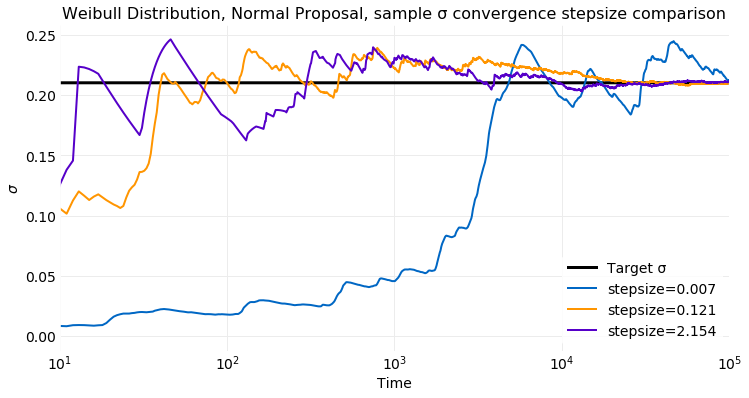
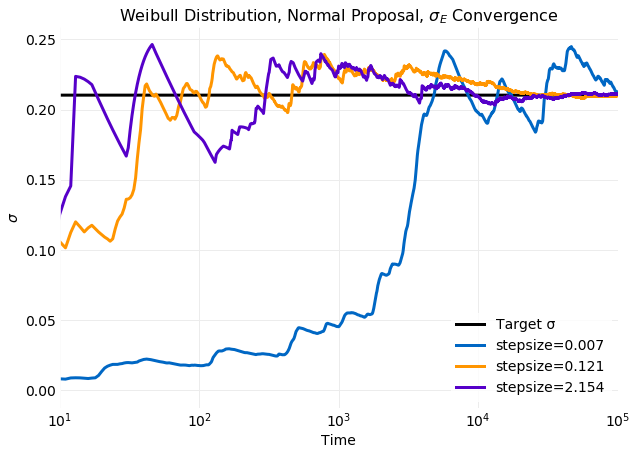
plot updates

diff --git a/hydrogen_notebooks/mcmc/metropolis_hastings/weibull_target/normal_proposal_burn_in.py b/hydrogen_notebooks/mcmc/metropolis_hastings/weibull_target/normal_proposal_burn_in.py
@@ -150,3 +150,41 @@ config.save_post_asset(figure, "metropolis_hastings_sampling", "normal_proposal_
 sample_idx = 4
 title = f"Weibull Distribution, Normal Proposal: Accepted {format(acceptance[sample_idx], '2.0f')}%, " + r"$X_0$=" + f"{x0[sample_idx]}"
 gplot.pdf_samples(title, target_pdf, all_samples[sample_idx][10000:], "metropolis_hastings_sampling", "normal_proposal_sampled_pdf_burnin-removed-x-3")
+
+# %%
+
+μ = stats.weibull_mean(k, λ)
+title = r"Weibull Distribution, Normal Proposal, $μ_E$ Convergence"
+time = numpy.array(range(nsample-10000))
+nplot = len(all_samples)
+figure, axis = pyplot.subplots(figsize=(10, 7))
+axis.set_xlabel("Time")
+axis.set_ylabel(r"$μ$")
+axis.set_title(title)
+axis.set_xlim([1.0, nsample-10000])
+axis.set_ylim([0.4, 1.25])
+axis.yaxis.set_ticks([0.5, 0.75, 1.0, 1.25])
+axis.semilogx(time, numpy.full(nsample-10000, μ), label="Target μ", color="#000000")
+for i in range(nplot):
+    axis.semilogx(time, stats.cummean(all_samples[i][10000:]), label=r"$X_0$="+f"{format(x0[i], '2.2f')}")
+axis.legend(bbox_to_anchor=(0.7, 0.55))
+config.save_post_asset(figure, "metropolis_hastings_sampling", "normal_proposal_burnin-removed-mean-convergence")
+
+# %%
+ 
+σ = stats.weibull_sigma(k, λ)
+title = r"Weibull Distribution, Normal Proposal, $σ_E$ Convergence"
+time = range(nsample-10000)
+nplot = len(all_samples)
+
+figure, axis = pyplot.subplots(figsize=(10, 7))
+axis.set_xlabel("Time")
+axis.set_ylabel(r"$σ$")
+axis.set_title(title)
+axis.set_xlim([1.0, nsample-10000])
+axis.set_ylim([-0.05, 0.5])
+axis.semilogx(time, numpy.full(nsample-10000, σ), label="Target σ", color="#000000")
+for i in range(nplot):
+    axis.semilogx(time, stats.cumsigma(all_samples[i][10000:]), label=r"$X_0$="+f"{format(x0[i], '2.2f')}")
+axis.legend(bbox_to_anchor=(0.7, 0.525))
+config.save_post_asset(figure, "metropolis_hastings_sampling", "normal_proposal_burnin_removed-sigma-convergence")

diff --git a/glyfish/gplot.py b/glyfish/gplot.py
@@ -58,28 +58,28 @@ def steps_size_time_series(title, samples, time, stepsize, acceptance, ylim, tex
 def step_size_mean(title, samples, time, μ, stepsize, post, plot):
     nplot = len(samples)
     nsample = len(time)
-    figure, axis = pyplot.subplots(figsize=(12, 6))
+    figure, axis = pyplot.subplots(figsize=(10, 7))
     axis.set_xlabel("Time")
     axis.set_ylabel(r"$μ$")
     axis.set_title(title)
     axis.set_xlim([10.0, nsample])
     axis.semilogx(time, numpy.full((len(time)), μ), label="Target μ", color="#000000")
     for i in range(nplot):
-        axis.semilogx(time, stats.cummean(samples[i]), label=f"stepsize={format(stepsize[i], '2.3f')}", lw=2)
+        axis.semilogx(time, stats.cummean(samples[i]), label=f"stepsize={format(stepsize[i], '2.3f')}")
     axis.legend()
     config.save_post_asset(figure, post, plot)
 
 def step_size_sigma(title, samples, time, σ, stepsize, post, plot):
     nplot = len(samples)
     nsample = len(time)
-    figure, axis = pyplot.subplots(figsize=(12, 6))
+    figure, axis = pyplot.subplots(figsize=(10, 7))
     axis.set_xlabel("Time")
     axis.set_ylabel(r"$σ$")
     axis.set_title(title)
     axis.set_xlim([10.0, nsample])
     axis.semilogx(time, numpy.full((len(time)), σ), label="Target σ", color="#000000")
     for i in range(nplot):
-        axis.semilogx(time, stats.cumsigma(samples[i]), label=f"stepsize={format(stepsize[i], '2.3f')}", lw=2)
+        axis.semilogx(time, stats.cumsigma(samples[i]), label=f"stepsize={format(stepsize[i], '2.3f')}")
     axis.legend()
     config.save_post_asset(figure, post, plot)
 

diff --git a/hydrogen_notebooks/mcmc/metropolis_hastings/weibull_target/normal_proposal.py b/hydrogen_notebooks/mcmc/metropolis_hastings/weibull_target/normal_proposal.py
@@ -65,7 +65,6 @@ sample_idx = 10
 title = f"Weibull Distribution, Normal Proposal, Accepted {format(acceptance[sample_idx], '2.0f')}%, stepsize={format(stepsize[sample_idx], '2.3f')}"
 gplot.pdf_samples(title, target_pdf, all_samples[sample_idx], "metropolis_hastings_sampling", "normal_proposal_sampled_pdf-82")
 
-
 # %%
 
 sample_idx = 13
@@ -91,7 +90,7 @@ gplot.steps_size_time_series(title, time_series_samples, time, time_series_steps
 # %%
 
 μ = stats.weibull_mean(k, λ)
-title = f"Weibull Distribution, Normal Proposal, sample μ convergence stepsize comparison"
+title = r"Weibull Distribution, Normal Proposal, $μ_E$ Convergence"
 time = range(nsample)
 mean_samples = [all_samples[i][time] for i in sample_idx]
 mean_stepsize = stepsize[sample_idx]
@@ -100,7 +99,7 @@ gplot.step_size_mean(title, mean_samples, time, μ, mean_stepsize, "metropolis_h
 # %%
 
 σ = stats.weibull_sigma(k, λ)
-title = f"Weibull Distribution, Normal Proposal, sample σ convergence stepsize comparison"
+title = r"Weibull Distribution, Normal Proposal, $σ_E$ Convergence"
 time = range(nsample)
 sigma_samples = [all_samples[i][time] for i in sample_idx]
 sigma_stepsize = stepsize[sample_idx]
